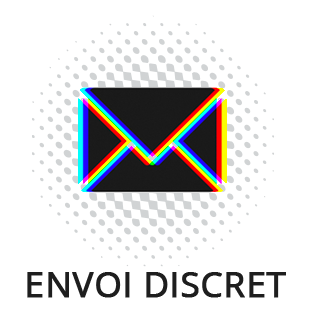
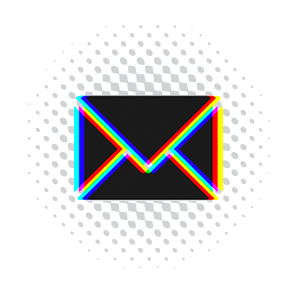
changes

diff --git a/index.html b/index.html
@@ -44,7 +44,7 @@
                                     <h1 class="text-light">CHERRY PIE</h1>
                                     <p class="text-light">Nous sommes fiers de vous présenter notre nouvelle variété : la Cherry
                                         Pie.</p>
-                                    <div class="d-flex justify-content-lg-end">
+                                    <div class="d-flex justify-content-lg-end justify-content-center">
                                         <button class="button"><i class="fa fa-shopping-cart"></i>AJouter Au Panier</button>
                                     </div>
                                 </div>
@@ -67,9 +67,9 @@
                                 <img src="assets/img/logo.png" class="img-fluid" alt="">
                                 <div class="header-text text-lg-right">
                                     <h1 class="text-light">SKITTELZ indoor</h1>
-                                    <p class="text-light">Nous sommes fiers de vous présenter notre nouvelle variété : la Cherry
+                                    <p class="text-light">Nous sommes fiers de vous présenter notre nouvelle variété : SKITTELZ indoor
                                         Pie.</p>
-                                    <div class="d-flex justify-content-lg-end">
+                                    <div class="d-flex justify-content-lg-end justify-content-center">
                                         <button class="button"><i class="fa fa-shopping-cart"></i>AJouter Au Panier</button>
                                     </div>
                                 </div>
@@ -92,9 +92,9 @@
                                 <img src="assets/img/logo.png" class="img-fluid" alt="">
                                 <div class="header-text text-lg-right">
                                     <h1 class="text-light">MANGO KUSH</h1>
-                                    <p class="text-light">Nous sommes fiers de vous présenter notre nouvelle variété : la Cherry
+                                    <p class="text-light">Nous sommes fiers de vous présenter notre nouvelle variété : MANGO KUSH
                                         Pie.</p>
-                                    <div class="d-flex justify-content-lg-end">
+                                    <div class="d-flex justify-content-lg-end justify-content-center">
                                         <button class="button"><i class="fa fa-shopping-cart"></i>AJouter Au Panier</button>
                                     </div>
                                 </div>
@@ -291,7 +291,7 @@
                                 <hr>
                             </div>
                             <div class="col-4 head-text">
-                                <h1 class="text-center pt-3">Nos coups de cœur</h1>
+                                <h1 class="text-center pt-3 text-uppercase font-weight-bold">Nos coups de cœur</h1>
                                 <p>Notre gamme de fleurs CBD 100% légal</p>
                             </div>
                             <div class="col-4">
@@ -487,15 +487,25 @@
                             <div class="process-img">
                                 <div class="row">
                                     <div class="col-3 arrow-1"><img src="assets/img/arrow-1.png" class="" alt=""></div>
-                                    <div class="col-2 text-right"><img src="assets/img/process-1.png" alt="" class="img-fluid" srcset=""></div>
+                                    <div class="col-2 text-right"><img src="assets/img/process-1.png" alt="" class="img-fluid" srcset="">
+                                    <h1>ENVOI DISCRET</h1>
+                                    </div>
                                     <div class="col-2 arrow"><img src="assets/img/arrow-2.png" alt="" class="img-fluid" srcset=""></div>
-                                    <div class="col-2"><img src="assets/img/process-2.png" class="img-fluid" alt="" srcset=""></div>
-                                    <div class="col-3"><img src="assets/img/arrow-3.png" class="" alt=""></div>
+                                    <div class="col-2"><img src="assets/img/process-2.png" class="img-fluid" alt="" srcset="">
+                                    <h1>TRANSPORT EXPRESS</h1>
+                                    </div>
+                                    <div class="col-3"><img src="assets/img/arrow-3.png" class="" alt="">
+                                    
+                                    </div>
                                 </div>
                                 <div class="row">
-                                    <div class="col-2 text-right"><img src="assets/img/process-3.png" alt="" class="img-fluid" srcset=""></div>
-                                    <div class="col-8"></div>
-                                    <div class="col-2"><img src="assets/img/process-4.png" alt="" class="img-fluid" srcset=""></div>
+                                    <div class="col-2 text-right"><img src="assets/img/process-3.png" alt="" class="img-fluid" srcset="">
+                                    <h1 class="text-uppercase">CBD de Qualité</h1>
+                                    </div>
+                                    <div class="col-8 text-center"> <img src="assets/img/leaf-hand.png" alt="" class="img-fluid" srcset=""> </div>
+                                    <div class="col-2"><img src="assets/img/process-4.png" alt="" class="img-fluid" srcset="">
+                                    <h1>CBD 100% LÉGAL</h1>
+                                    </div>
                                 </div>
                             </div>
                         </div>

diff --git a/assets/css/style.css b/assets/css/style.css
@@ -46,6 +46,7 @@
 }
 .header-bg-img {
     width: 100%;
+    height: 100vh;
     background-position: left top;
     background-size: 100% 100%;
     background-repeat: no-repeat;
@@ -55,7 +56,8 @@
 
 .header-img {
     flex-direction: column;
-    height: 100vh;
+    justify-content: center;
+
 
     margin-top: 3rem;
 }
@@ -63,12 +65,14 @@
 
 .img-1 {
     justify-content: center;
-    align-items: flex-start;
+    align-items: center;
 
     padding-right: 0;
 }
+.img-2 {
+    align-items: center;
+}
 .img-1 img {
-    margin-top: 3rem;
 }
 .img-1 img,.img-2 img {
     width: 100%;
@@ -106,6 +110,7 @@
     border-radius: 100px;
     border: none;
 
+    text-transform: uppercase;
     font-weight: bold;
     color: #d52243;
     background-color: #fff;
@@ -528,8 +533,15 @@ box-shadow: 14px 17px 22px -15px rgba(0,0,0,0.75);
 }
 /* cards end */
 
+.process-img h1 {
+    font-style: var(--opensans);
+    font-weight: bold;
+    font-size: clamp(.55rem, 2vw, 1.3rem);
+    text-align: center;
+}
+
 .process-img .col-3 img{
-    width: 50%;
+    width: 60%;
     height: 50%;
 }
 .process-img .col-3, .arrow {
